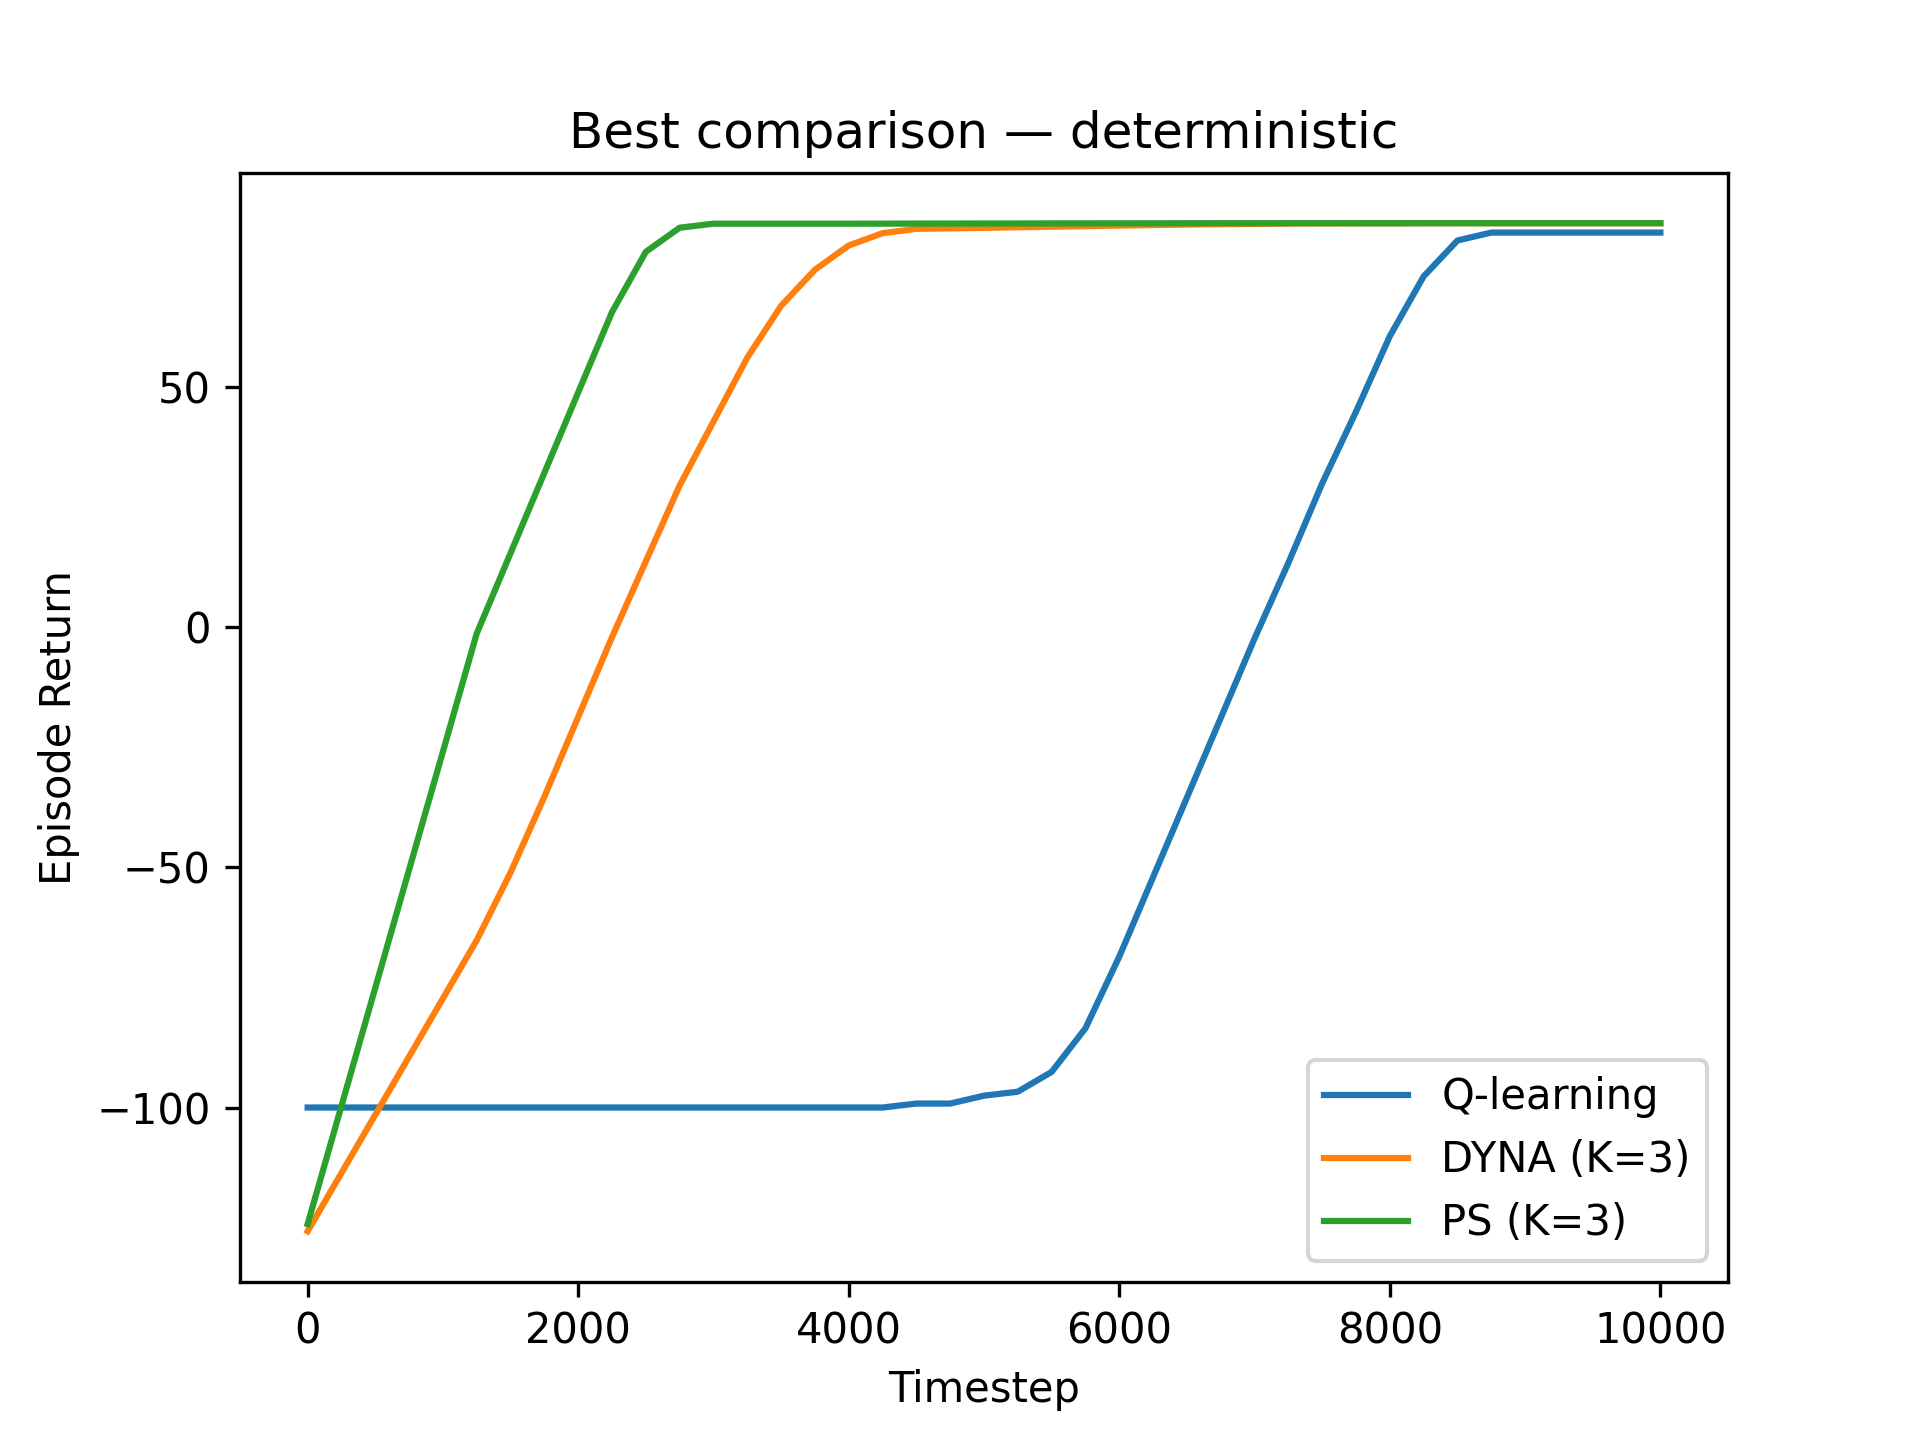
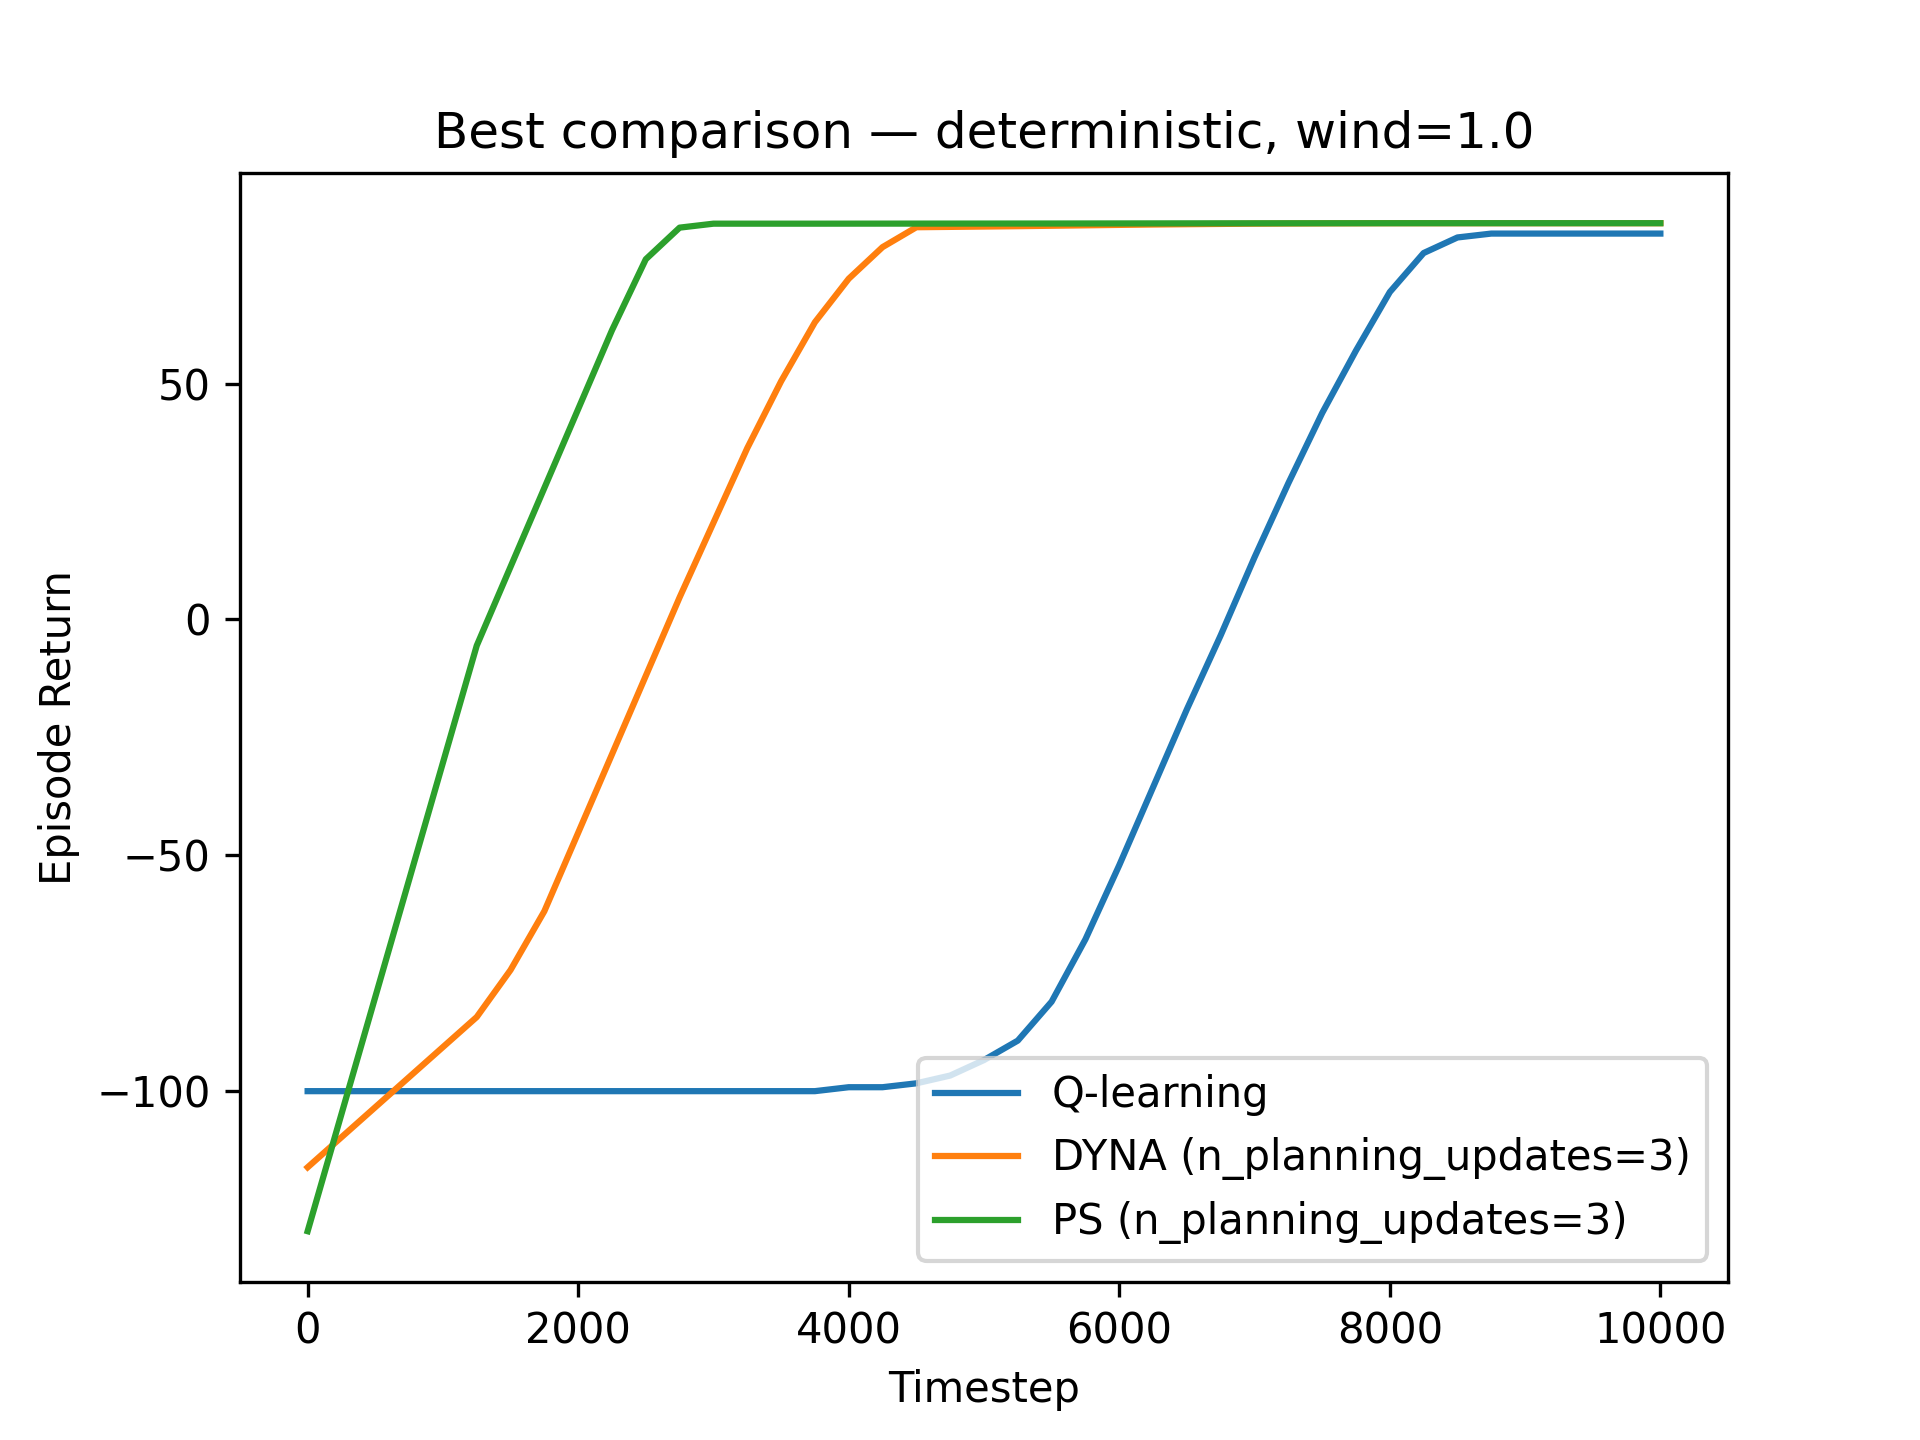
Add files via upload

diff --git a/MBRLExperiment.py b/MBRLExperiment.py
@@ -18,7 +18,7 @@ epsilon = 0.1
 
 smooth_window = 11
 
-planning_list = [1, 3, 5]
+n_planning_updates = [1, 3, 5]
 wind_cases = {
     "stochastic": 0.9,
     "deterministic": 1.0
@@ -99,13 +99,13 @@ def experiment():
     for alg_key, AgentCls in agent_map.items():
         for wind_case, wind_prop in wind_cases.items():
             curves: dict[str, np.ndarray] = {
-                "K=0": baseline_curves[wind_case]
+                "n_planning_updates=0": baseline_curves[wind_case]
             }
             best_label, best_curve = None, None
             best_final = -np.inf
 
-            for n_plan in planning_list:
-                label = f"K={n_plan}"
+            for n_plan in n_planning_updates:
+                label = f"n_planning_updates={n_plan}"
                 print(f"Running {alg_key} | {wind_case} | {label} …")
                 mean_curve, avg_rt = run_batch(AgentCls, wind_prop, n_plan)
                 curves[label] = mean_curve
@@ -119,7 +119,7 @@ def experiment():
 
             # save per‑algorithm plot
             fname = f"{alg_key}_{wind_case}.png"
-            make_plot(f"{alg_key.upper()} — {wind_case}", steps_axis, curves, fname)
+            make_plot(f"Curves with {alg_key.upper()} — {wind_case}, wind={wind_prop}", steps_axis, curves, fname)
 
             if best_curve is not None:
                 best_curves[(alg_key, wind_case)] = (best_label, best_curve)
@@ -135,15 +135,23 @@ def experiment():
                 label, curve = best_curves[(alg_key, wind_case)]
                 comp_curves[f"{alg_key.upper()} ({label})"] = curve
         fname = f"compare_{wind_case}.png"
-        make_plot(f"Best comparison — {wind_case}", steps_axis, comp_curves, fname)
+        make_plot(f"Best comparison — {wind_case}, wind={wind_cases[wind_case]}", steps_axis, comp_curves, fname)
 
     # ------------------------------------------------------------------
     # Print runtime summary table
     print("\nAverage runtime per repetition (s):")
-    print("alg\twind\tK\truntime")
+    print("alg\twind\tn_planning_updates\truntime")
     for alg, wcase, k, rt in runtime_table:
         print(f"{alg}\t{wcase}\t{k}\t{rt:.3f}")
 
 
 if __name__ == "__main__":
     experiment()
+
+
+# To run the code:
+# python -m venv .venv
+# .\.venv\Scripts\Activate
+# python -m pip install --upgrade pip
+# pip install numpy matplotlib
+# pip install scipy

diff --git a/MBRLAgents.py b/MBRLAgents.py
@@ -17,6 +17,7 @@ class DynaAgent:
         self.n = np.zeros((n_states, n_actions, n_states)) # s,a,s' - number of visits
         self.Rsum = np.zeros((n_states, n_actions, n_states)) # s,a,s' - total reward
 
+
     def select_action(self, s: int, epsilon: float):
         if np.random.rand() < epsilon:
             return np.random.randint(self.n_actions)
@@ -24,6 +25,7 @@ class DynaAgent:
             max_q = np.max(self.Q_sa[s])
             max_actions = np.where(self.Q_sa[s] == max_q)[0]
             return np.random.choice(max_actions)
+
 
     def update(self, s: int, a: int, r: float, done: bool, s_next: int, n_planning_updates: int):
         # Direct (real) TD update -------------------------------------------
@@ -103,6 +105,7 @@ class PrioritizedSweepingAgent:
             max_actions = np.where(self.Q_sa[s] == max_q)[0]
             return np.random.choice(max_actions)
 
+
     def update(self, s: int, a: int, r: float, done: bool, s_next: int, n_planning_updates: int):
         # Direct (real) TD update -------------------------------------------
         target = r if done else r + self.gamma * np.max(self.Q_sa[s_next])
@@ -151,6 +154,7 @@ class PrioritizedSweepingAgent:
                         self.queue.put((-priority_b, (b_s, b_a)))
 
             planning_counter += 1
+
 
     def evaluate(self, eval_env: WindyGridworld, n_eval_episodes: int = 30, max_episode_length: int = 100) -> float:
         returns = []
